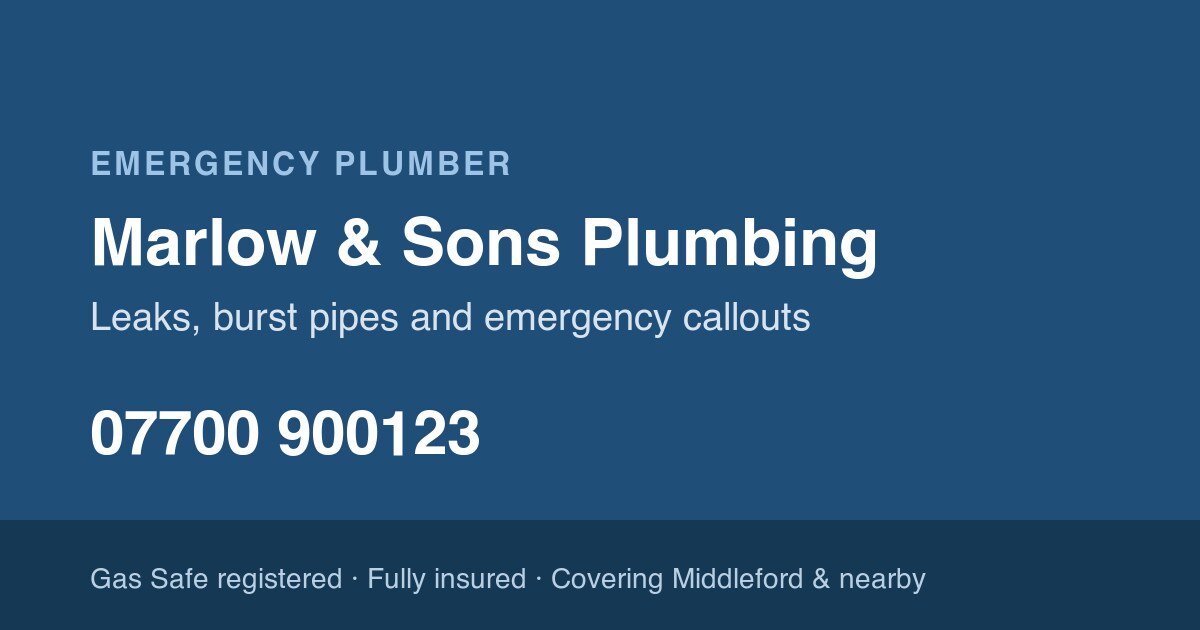
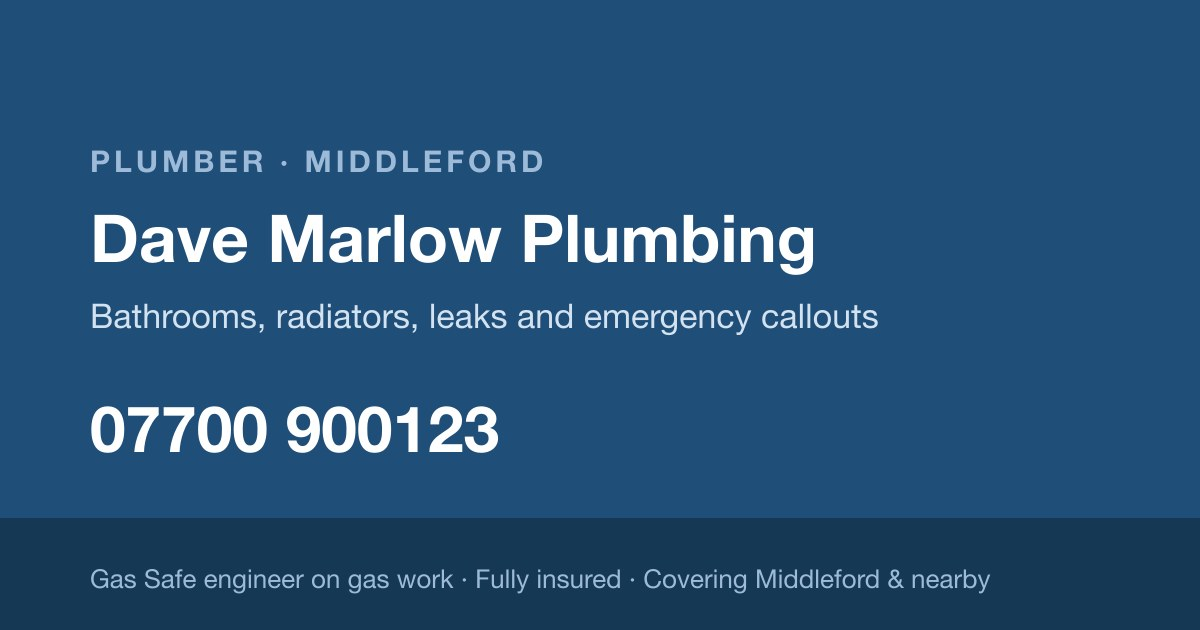
feat: update gas safety credentials structure and improve copy for clarity

diff --git a/src/config/client.ts b/src/config/client.ts
@@ -45,7 +45,19 @@ export interface ClientConfig {
   email?: string
 
   // credentials
-  gasSafeNumber?: string
+  /**
+   * Omitted = no gas work at all.
+   *
+   * `who` is a legal distinction, not a wording preference. Only someone on the
+   * register may be described as Gas Safe registered, so a trader who subs gas
+   * work out to a registered mate is 'partner' and the copy says so. Getting
+   * this wrong misrepresents a statutory registration.
+   */
+  gasSafe?: {
+    who: 'self' | 'partner'
+    number: string    // whoever actually holds the registration
+    engineer?: string // the partner's name, when who is 'partner'
+  }
   insured: boolean
 
   // coverage
@@ -73,11 +85,11 @@ export interface ClientConfig {
 
 // src/config/client.ts — DEMO DATA. Overwrite in each client repo.
 export const client: ClientConfig = {
-  businessName: 'Marlow & Sons Plumbing',
-  tagline: 'Leaks, burst pipes and emergency callouts',
+  businessName: 'Dave Marlow Plumbing',
+  tagline: 'Bathrooms, radiators, leaks and emergency callouts',
   trade: 'plumber',
   owner: 'Dave',
-  voice: 'we',
+  voice: 'i',
 
   siteUrl: 'https://tradedemo.mpconsult.uk',
   ogImage: '/og.jpg',
@@ -94,7 +106,7 @@ export const client: ClientConfig = {
   phoneE164: '+447700900123',
   whatsappNumber: '447700900123',
 
-  gasSafeNumber: '123456',
+  gasSafe: { who: 'partner', number: '123456', engineer: 'Ben Whitlock' },
   insured: true,
 
   baseTown: 'Middleford',
@@ -105,19 +117,25 @@ export const client: ClientConfig = {
     { slug: 'stanton-green', name: 'Stanton Green' },
   ],
 
+  // Everyday work first, emergencies badged. Rendered in this order, so the
+  // list itself makes the point that emergency callouts are part of the job
+  // rather than the whole of it.
   services: [
+    { name: 'Bathroom installations' },
+    { name: 'Radiators and heating' },
+    { name: 'Underfloor heating' },
+    { name: 'Taps, toilets and showers' },
     { name: 'Leak repair', emergency: true },
     { name: 'Burst pipes', emergency: true },
+    { name: 'Blocked drains', emergency: true },
     { name: 'No water', emergency: true },
     { name: 'Emergency callouts', emergency: true },
-    { name: 'Taps and toilets' },
-    { name: 'Radiators' },
-    { name: 'Blocked drains' },
   ],
 
   reviews: [
     { quote: 'Came out the same evening for a burst pipe. Sorted in an hour.', author: 'Sarah M.', source: 'Checkatrade' },
     { quote: 'Honest, tidy, and told me what I did not need doing.', author: 'James P.', source: 'Checkatrade' },
+    { quote: 'Fitted our bathroom start to finish. Cleaned up every evening.', author: 'Priya N.', source: 'Checkatrade' },
     { quote: 'Quoted on the Monday, done by Wednesday. No fuss.', author: 'Angela R.', source: 'Google' },
   ],
 

diff --git a/src/config/copy.ts b/src/config/copy.ts
@@ -18,7 +18,7 @@ const nearby = areaNames.find((name) => name !== client.baseTown)
 export const copy = {
   // head
   title: [
-    `${client.businessName} — Emergency ${sentenceCase(client.trade)} in ${client.baseTown}`,
+    `${client.businessName} — ${sentenceCase(client.trade)} in ${client.baseTown}`,
     nearby ? ` & ${nearby}` : '',
   ].join(''),
   description: `${client.tagline}. ${sentenceCase(client.trade)} covering ${joinNames(areaNames)}.`,
@@ -27,11 +27,15 @@ export const copy = {
   headerCallLabel: (phone: string) => `Call ${phone}`,
 
   // hero
-  heroHeading: `Emergency ${client.trade} in ${client.baseTown}`,
+  heroHeading: `${sentenceCase(client.trade)} in ${client.baseTown}`,
   /** "Gas Safe registered · Fully insured · covering <areas>" — each part drops when absent. */
   heroCredentials: (areaList: string) =>
     [
-      client.gasSafeNumber ? 'Gas Safe registered' : '',
+      client.gasSafe
+        ? client.gasSafe.who === 'self'
+          ? 'Gas Safe registered'
+          : 'Gas Safe engineer on gas work'
+        : '',
       client.insured ? 'Fully insured' : '',
       areaList ? `covering ${areaList}` : '',
     ]
@@ -57,8 +61,8 @@ export const copy = {
   // areas
   areasHeading: 'Areas covered',
   areasIntro: (town: string) =>
-    v(`Based in ${town}, covering the surrounding towns and villages.`,
-      `Based in ${town}, covering the surrounding towns and villages.`),
+    v(`I'm based in ${town} and cover the surrounding towns and villages.`,
+      `We're based in ${town} and cover the surrounding towns and villages.`),
 
   // rating badge
   rating: {
@@ -76,7 +80,20 @@ export const copy = {
 
   // credentials
   credentialsHeading: 'Credentials',
-  gasSafe: 'Gas Safe registered',
+  /**
+   * 'self' is the only case that may claim registration. For 'partner' the
+   * sentence has to make clear the registration is the engineer's, not the
+   * trader's — the register is statutory and the claim is checkable.
+   */
+  gasSafe: (who: 'self' | 'partner', engineer?: string) => {
+    if (who === 'self') return 'Gas Safe registered'
+    return engineer
+      ? `Gas work is carried out by ${engineer}, who is Gas Safe registered`
+      : v(
+          'Gas work is carried out by a Gas Safe registered engineer I work with',
+          'Gas work is carried out by a Gas Safe registered engineer we work with'
+        )
+  },
   gasSafeNumber: (number: string) => `— no. ${number}`,
   insured: 'Fully insured',
 

diff --git a/SCAFFOLD.md b/SCAFFOLD.md
@@ -53,7 +53,11 @@ export interface ClientConfig {
   email?: string
 
   // credentials
-  gasSafeNumber?: string
+  gasSafe?: {                   // who holds the registration — see below
+    who: 'self' | 'partner'
+    number: string
+    engineer?: string
+  }
   insured: boolean
 
   // coverage
@@ -181,7 +185,7 @@ Copy is written. Take it as-is unless Ian objects.
 
 This does three jobs: it's genuinely useful, it builds trust before any sales copy, and it does the work the WhatsApp away message would do if the Business app isn't set up yet.
 
-**3 · Services** — plain list from `config.services`, emergency ones first
+**3 · Services** — plain list from `config.services`, rendered in config order. Everyday work leads and emergency jobs carry a badge: emergency callouts are a big part of the work, not the whole of it.
 
 **4 · Areas covered** — links to the generated area pages
 
@@ -220,6 +224,23 @@ Keep prefills **short**. A panicking customer won't complete a form. The away me
 Build a `waLink(source)` helper that encodes properly — spaces to `%20`, em-dash to `%E2%80%94`, colon to `%3A`.
 
 **Never WhatsApp alone.** Someone without it installed lands on a download page, which is a lost job.
+
+### Button colours
+
+Fixed, not from `accent`. **Call is red**, WhatsApp is WhatsApp's own green (`#25d366`). A customer identifies both before reading either. The green takes dark ink — white on it is 2:1 — and a darker edge, because the fill alone is too light to define the button against a white page. Both flip to brighter values in dark mode; see the comments in `global.css`.
+
+---
+
+## The Gas Safe rule
+
+A trade site is the one place a credential claim is checkable, and Gas Safe registration is statutory: only someone on the register may be described as Gas Safe registered.
+
+`gasSafe.who` encodes it:
+
+- `'self'` — the trader is on the register → *"Gas Safe registered — no. 123456"*
+- `'partner'` — gas work is subbed to a registered engineer → *"Gas work is carried out by {name}, who is Gas Safe registered — no. 123456"*
+
+The hero credential line shortens to *"Gas Safe engineer on gas work"* for `'partner'`, which is true without implying the trader holds the registration. Omit `gasSafe` entirely for a trader who does no gas work at all.
 
 ---
 
@@ -273,7 +294,7 @@ Someone with a leak, on 4G, standing in a puddle. **Under 2 seconds.**
 
 ## SEO
 
-- `<title>`: `{businessName} — Emergency Plumber in {baseTown} & {area}`
+- `<title>`: `{businessName} — Plumber in {baseTown} & {area}`. Not "Emergency Plumber" — the trade and the town are the identity, and emergency work is carried by the strip, the service badges and the tagline instead.
 - `LocalBusiness` / `Plumber` JSON-LD with `areaServed` from config, **no `address`** — he's a service-area business and the address is deliberately hidden
 - Business name **identical** to the Google Business Profile, character for character
 - Phone number identical everywhere — website, GBP, Facebook, Checkatrade. Inconsistent numbers across citations quietly damage local ranking
@@ -309,5 +330,5 @@ Cloudflare Pages, connected to the repo. Domain, DNS and hosting in one account.
 1. Ian's phone number
 2. Confirm service-area towns and radius
 3. Three or four short Checkatrade review quotes — profile is **9.89 from 95 reviews**, goes in his repo's `client.ts` as `rating` (the template ships fictional demo numbers)
-4. Does he do boilers/heating? Changes the services list and possibly the business name
+4. ~~Does he do boilers/heating?~~ Rads, bathrooms, underfloor heating, plus the standard repair work. **Gas is done by a qualified mate, not by Ian** — so `gasSafe.who` is `'partner'` and the site must never say "Gas Safe registered" of Ian himself. Still need the mate's name and registration number
 5. Photos — 20+ of completed work, van, tools
